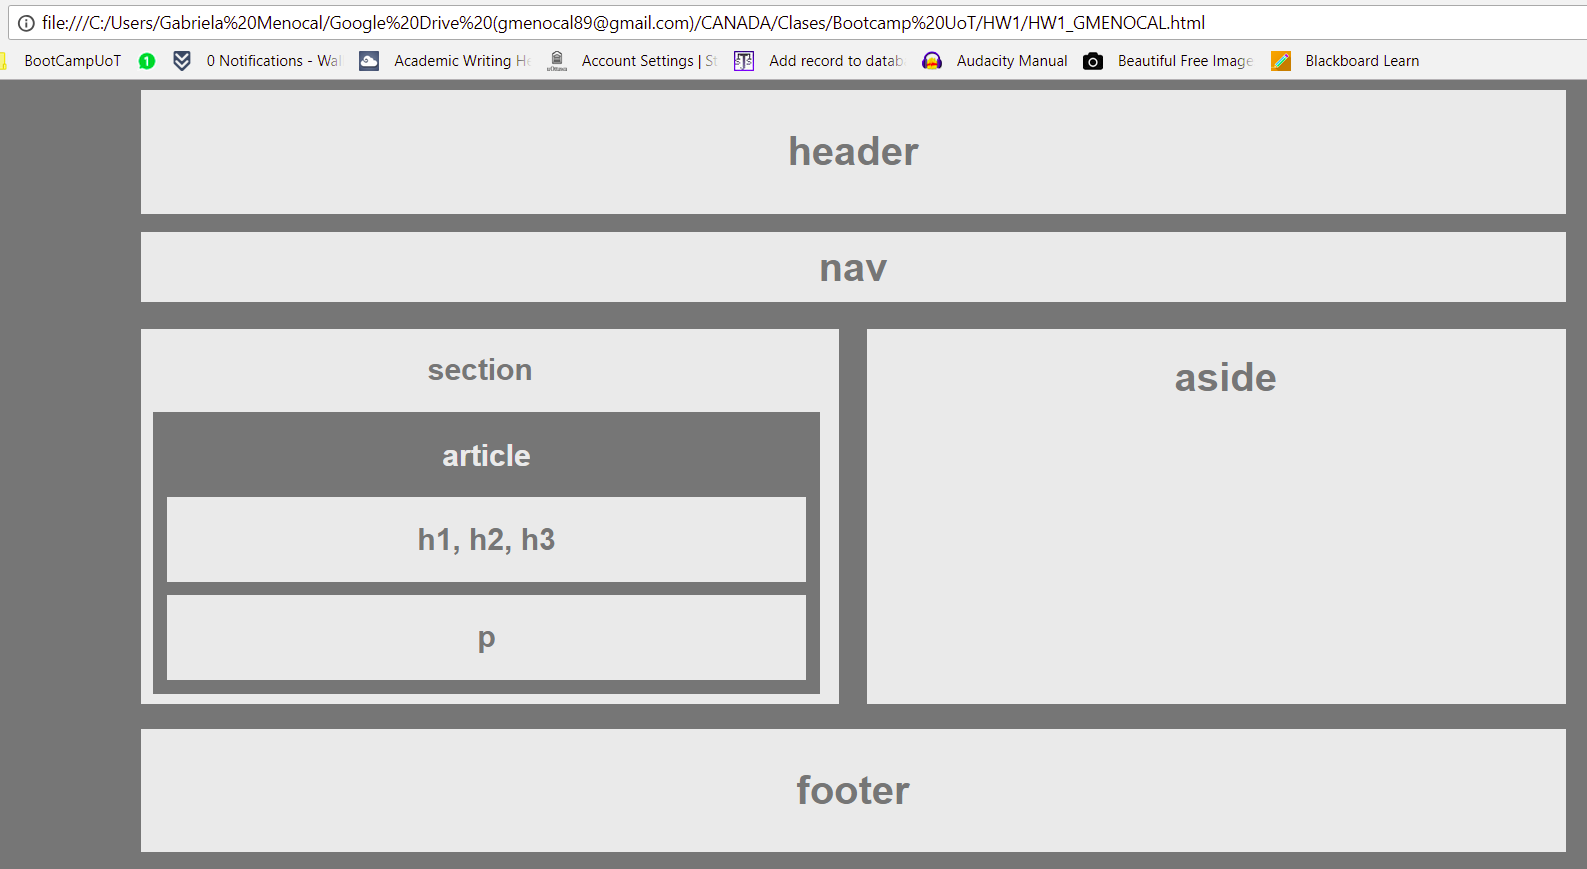
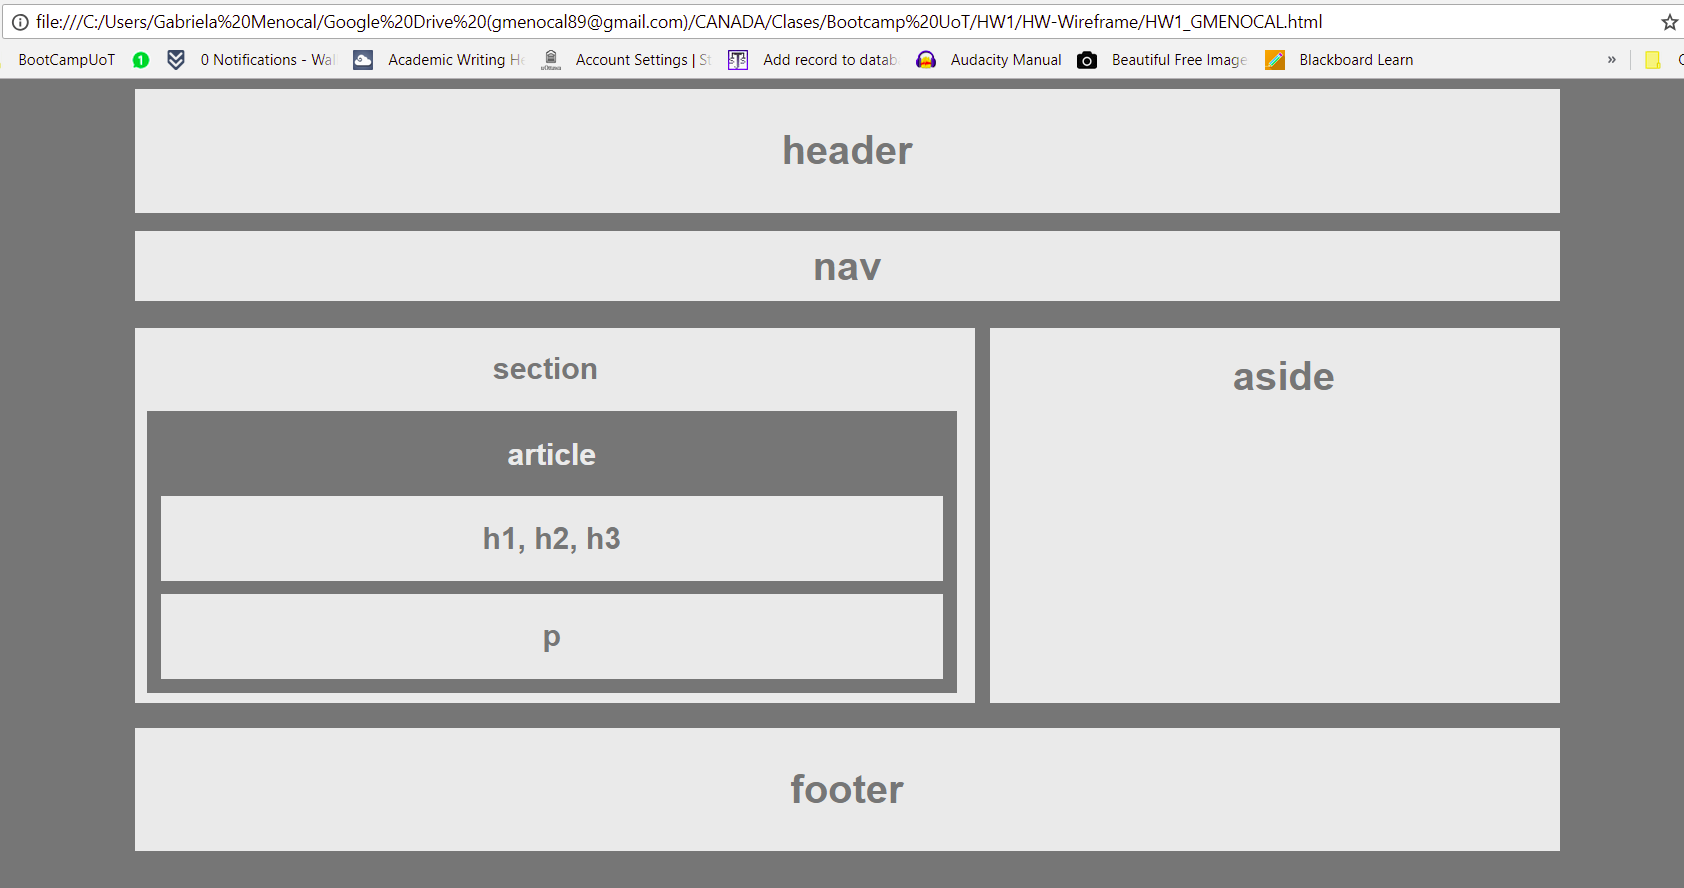
The lastest version

Changed region(s): [[0.0, 0.0, 1.0, 0.9942], [0.4631, 0.1554, 0.5866, 0.1864]]

diff --git a/style.css b/style.css
@@ -26,7 +26,7 @@ body{
 
 #left{
     background-color: #ebebeb;
-    width: 49%;
+    width: 59%;
     margin: 1px 1px 20px 0px;
     text-align: center;
     float: left;
@@ -38,7 +38,7 @@ body{
 
 #right{
     background-color: #ebebeb;
-    width: 49%;
+    width: 40%;
     margin: 1px 0px 1px 1px;
     text-align: center;
     float: right;
